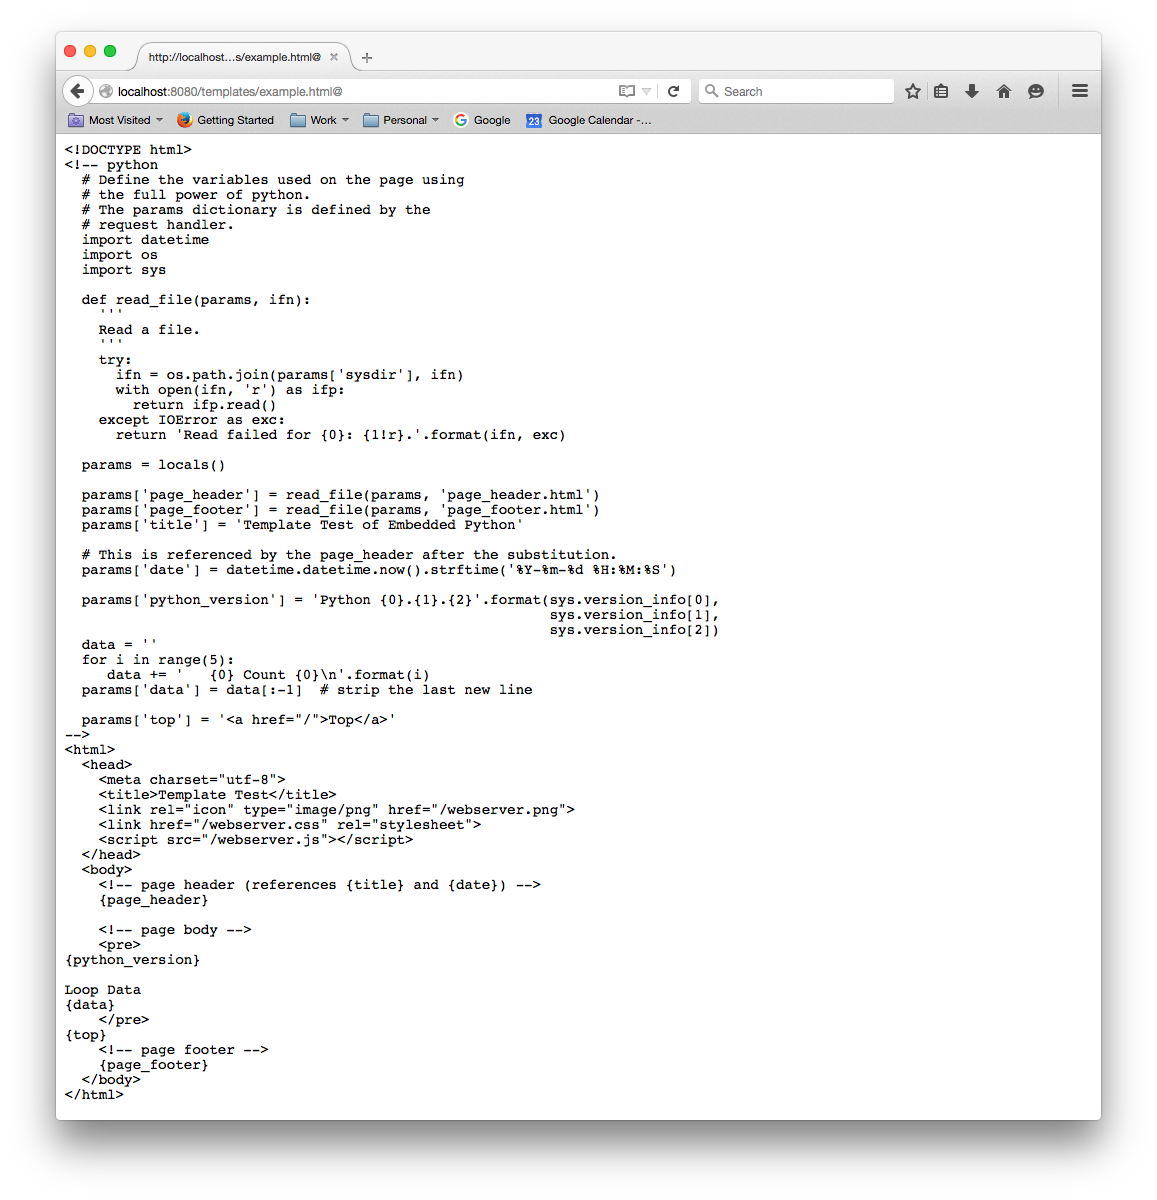
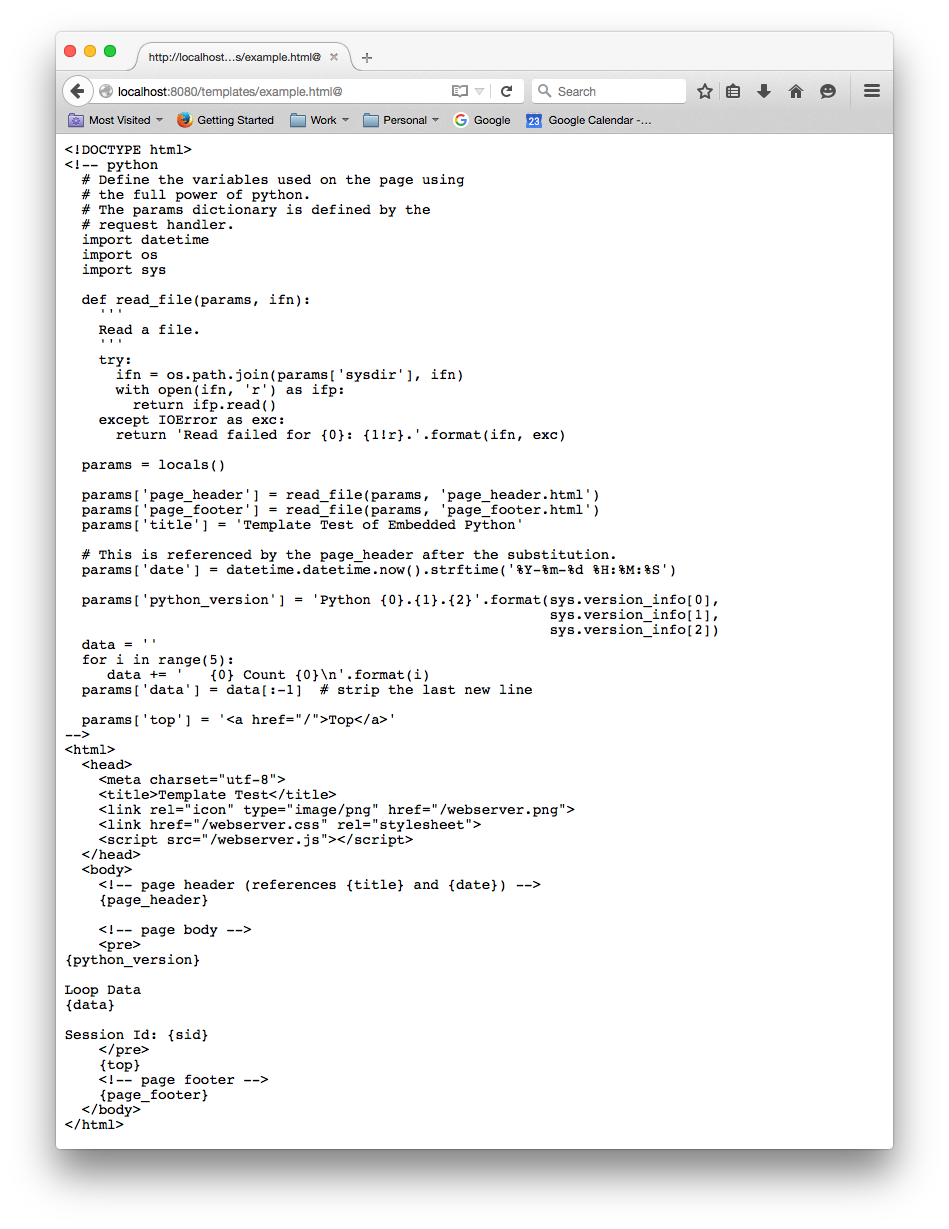
added session ids

Changed region(s): [[0.0306, 0.0308, 0.8251, 0.9558], [0.8556, 0.0308, 0.9779, 0.9558], [0.4584, 0.2775, 0.4889, 0.3083]]

diff --git a/webserver.py b/webserver.py
@@ -75,7 +75,7 @@ example of how that works:
       import datetime
       import os
       import sys
-      
+
       def read_file(params, ifn):
         """
         Read a file.
@@ -86,16 +86,16 @@ example of how that works:
             return ifp.read()
         except IOError as exc:
           return 'Read failed for {0}: {1!r}.'.format(ifn, exc)
-    
+
       params = locals()
-      
+
       params['page_header'] = read_file(params, 'page_header.html')
       params['page_footer'] = read_file(params, 'page_footer.html')
       params['title'] = 'Template Test of Embedded Python'
-      
+
       # This is referenced by the page_header after the substitution.
       params['date'] = datetime.datetime.now().strftime('%Y-%m-%d %H:%M:%S')
-      
+
       params['python_version'] = 'Python {0}.{1}.{2}'.format(sys.version_info[0],
                                                              sys.version_info[1],
                                                              sys.version_info[2])
@@ -103,7 +103,7 @@ example of how that works:
       for i in range(5):
          data += '   {0} Count {0}\n'.format(i)
       params['data'] = data[:-1]  # strip the last new line
-    
+
       params['top'] = '<a href="/">Top</a>'
     -->
     <html>
@@ -117,15 +117,15 @@ example of how that works:
       <body>
         <!-- page header (references {title} and {date}) -->
         {page_header}
-        
+
         <!-- page body -->
         <pre>
     {python_version}
-    
+
     Loop Data
     {data}
         </pre>
-    {top}    
+    {top}
         <!-- page footer -->
         {page_footer}
       </body>
@@ -162,11 +162,13 @@ import imp
 import logging
 import logging.handlers
 import mimetypes
+import random
 import re
 import os
 import socket
 import SocketServer
 import ssl
+import string
 import subprocess
 
 
@@ -760,7 +762,7 @@ The interpretation is up to the plugin.
 The default plug-in ignores them.
 Default=%(default)s.
 ''')
-    
+
     opts = parser.parse_args()
 
     return opts, name
@@ -866,9 +868,9 @@ def default_request_handler(req):
                 params = cgi.parse_qs(data, keep_blank_values=1)
 
             # some browser send 2 more bytes
-            rdy, _, _ = select.select([self.connection], [], [], 0)
+            rdy, _, _ = select.select([req.connection], [], [], 0)
             if rdy:
-                self.rfile.read(2)
+                req.rfile.read(2)
 
         # Get the protocol.
         protocol = 'HTTPS' if opts.https else 'HTTP'
@@ -876,14 +878,41 @@ def default_request_handler(req):
         setattr(req, 'm_syspath', req.translate_path(urlpath))  # system path, file or dir
         setattr(req, 'm_params', params)     # parameters from GET or POST
         setattr(req, 'm_protocol', protocol) # HTTP or HTTPS
-        
+
+        # Look for cookies so that we can set up the Set-Cookie response.
+        # If cookies exist, use them.
+        # If cookies do not exit, create a cookies entry.
+        if req.headers.has_key('cookie'):
+            cookie = Cookie.SimpleCookie(req.headers.getheader('cookie'))
+        else:
+            cookie = Cookie.SimpleCookie()
+
+        key = 'ws_sid'  # cookie id
+        if cookie.has_key(key):
+            sid = cookie[key].value
+        else:
+            sid = ''.join(random.choice(string.ascii_letters + string.digits) for i in range(16))
+            cookie[key] = sid
+
+        setattr(req, 'm_cookie', cookie)
+        setattr(req, 'm_sid', sid)  # session id
+
         # Debug messages.
-        logger.debug('Handling {0} {1} request {2}'.format(req.m_protocol,
-                                                           req.command,
-                                                           req.path))
-        logger.debug('   UrlPath  : {0}'.format(req.m_urlpath))
-        logger.debug('   SysPath  : {0}'.format(req.m_syspath))
-        logger.debug('   Params   : {0!r}'.format(req.m_params))
+        if opts.log_level == 'debug':
+            logger.debug('Handling {0} {1} request {2}'.format(req.m_protocol,
+                                                               req.command,
+                                                               req.path))
+            logger.debug('   UrlPath  : {0}'.format(req.m_urlpath))
+            logger.debug('   SysPath  : {0}'.format(req.m_syspath))
+            logger.debug('   Params   : {0!r}'.format(req.m_params))
+            logger.debug('   SessionId: {0}'.format(req.m_sid))
+
+            logger.debug('HTTP Headers')
+            entries = vars(req)
+            headers = str(entries['headers']).replace('\r\n', '\\r\\n\n')
+            for header in headers.split('\n'):
+                if len(header):  # skip zero length headers
+                    logger.debug('   {0} {1}'.format(len(header), header))
 
     def send(req, ctype, out):
         '''
@@ -893,12 +922,10 @@ def default_request_handler(req):
         req.send_header('Content-type', ctype)
         req.send_header('Content-length', len(out))
 
-        # Send cookie values, if any.
-        if req.headers.has_key('cookie'):
-            cookies = Cookie.SimpleCookie(self.headers.getheader('cookie'))
-            for cookie in cookies.values():
-                req.send_header('Set-Cookie', cookie.output(header='').lstrip())
-        
+        # Cookies - this always resets all of the cookies.
+        for morsel in req.m_cookie.values():  # SimpleCookie object.
+            req.send_header('Set-Cookie', morsel.output(header='').lstrip())
+
         req.end_headers()
 
         req.wfile.write(out)
@@ -912,7 +939,7 @@ def default_request_handler(req):
         lines = []
         lines.append('<!DOCTYPE HTML>')
         lines.append('<html>')
-        lines.append('  <head>') 
+        lines.append('  <head>')
         lines.append('    <meta charset="utf-8">')
         lines.append('    <title>Webserver - Directory</title>')
         lines.append('  </head>')
@@ -966,7 +993,7 @@ def default_request_handler(req):
         lines = []
         lines.append('<!DOCTYPE HTML>')
         lines.append('<html>')
-        lines.append('  <head>') 
+        lines.append('  <head>')
         lines.append('    <meta charset="utf-8">')
         lines.append('    <title>Webserver - Directory</title>')
         lines.append('  </head>')
@@ -1050,13 +1077,11 @@ def default_request_handler(req):
             logger.debug('REDIRECT: "{0}.'.format(url))
             req.send_response(301)
             req.send_header('Location', url)
-            
-            # Send cookie values, if any.
-            if req.headers.has_key('cookie'):
-                cookies = Cookie.SimpleCookie(self.headers.getheader('cookie'))
-                for cookie in cookies.values():
-                    req.send_header('Set-Cookie', cookie.output(header='').lstrip())
-                    
+
+            # Cookies - this always resets all of the cookies.
+            for morsel in req.m_cookie.values():  # SimpleCookie object.
+                req.send_header('Set-Cookie', morsel.output(header='').lstrip())
+
             req.end_headers()
             return True
         elif re.search(r'@$', req.m_urlpath):
@@ -1111,7 +1136,7 @@ def default_request_handler(req):
         It sets the parameter values so that they can be used
         for variable substitution.
         '''
-        
+
         # Find all of the python fragments.
         # <!-- python
         #   # Set the variables here.
@@ -1126,7 +1151,7 @@ def default_request_handler(req):
         for key in req.m_params:
             val = req.m_params[key][0]
             params[key] = val
-            
+
         # Load other useful parameters.
         if os.path.isdir(req.m_syspath):
             params['sysdir'] = req.m_syspath
@@ -1134,9 +1159,10 @@ def default_request_handler(req):
         else:
             params['sysdir'] = os.path.dirname(req.m_syspath)
             params['urldir'] = os.path.dirname(req.m_urlpath)
-            
+
         params['urlprefix'] = req.ws_get_url_prefix()
-            
+        params['sid'] = req.m_sid  # session id
+
         # Load up all of the variables.
         for fragment in fragments:
             # left justify so that statements are in the leftmost column.
@@ -1224,7 +1250,7 @@ def default_request_handler(req):
         '''
         if req.m_urlpath.endswith(ext) is False:
             return False
-        
+
         # This is a template.
         # Do the substitution and display the results.
         logger.debug('TEMPLATE: "{0}".'.format(req.m_syspath))
@@ -1272,7 +1298,7 @@ def default_request_handler(req):
         if sysfile is None:
             display_directory(req.m_syspath, req.m_urlpath)
             return
-        
+
         req.m_syspath = sysfile
 
     # Process templates.
@@ -1283,7 +1309,7 @@ def default_request_handler(req):
     ctype = req.guess_type(req.m_syspath)
     if ctype in ['application/x-sh', ]:
         ctype = 'text/plain'  # fix .sh
-    logger.debug('   Content  : {0}'.format(ctype))
+    logger.debug('Content type is "{0}".'.format(ctype))
 
     # Load the file data.
     try:
@@ -1332,6 +1358,7 @@ def create_request_handler_class(opts, logger, request_handler):
         '''
         s_opts = opts
         s_logger = logger
+        allow_reuse_address = True
 
         def ws_get_opts(self):
             '''
@@ -1381,7 +1408,7 @@ def serve(opts, logger, request_handler):
         sys.exit(1)
     if opts.https is False and opts.cert is not None:
         logger.warning('Cert file specified but --https was not specified, did you mean to specify --https?')
-        
+
     try:
         RequestHandlerClass = create_request_handler_class(opts, logger, request_handler)
         port = int(opts.port)
@@ -1466,3 +1493,4 @@ def main():
 
 if __name__ == '__main__':
     main()
+

diff --git a/README.md b/README.md
@@ -168,6 +168,7 @@ The following variables are available to embedded python code.
 
 Variable              | Description
 --------------------- | -----------
+`params['sid']`       | The unique session id.
 `params['sysdir']`    | The system directory path (ex. `opt/webdir/www/templates`). <br>Used to construct file names for reading nested files.
 `params['sysfile']`   | The system file path (ex. `/opt/webdir/www/templates/example.html`).
 `params['urldir']`    | The URL directory path (ex. `/templates`).
@@ -416,8 +417,7 @@ Short          | Long                     | Description
 This is list of TODO items.
 
 1. Convert to use python 3.
-2. Add support for sessions.
-3. Write an example that shows how to accept a username and password.
+2. Write an example that shows how to accept a username and password.
 
 ## Final Thoughts
 
